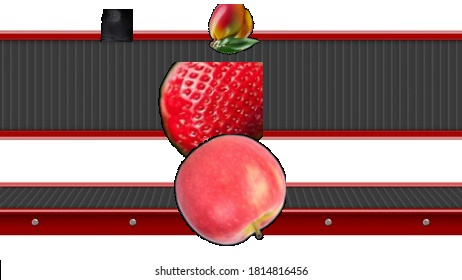
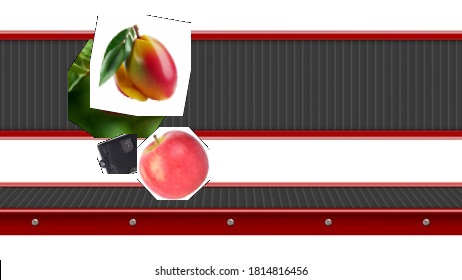
Happy path tested, working

Changed region(s): [[0.1212, 0.0, 0.6364, 0.8857]]

diff --git a/UI/gui.py b/UI/gui.py
@@ -8,6 +8,7 @@ from PIL import Image, ImageTk
 from image_processing.create_mask_cv2 import process_image
 from image_processing.pick_location_cv2 import pick_location_imp
 from image_processing.update_render_cv2 import get_updated_render_cv2
+from image_processing.automaticGenerate import gen_image
 import tkinter as tk
 import random
 
@@ -46,6 +47,10 @@ class App:
         self.img_label.image = self.img_tk  # Keep a reference to avoid garbage collection
         self.img_label.pack(pady=5)
 
+        # Create a Button widget to Auto Generate Image
+        self.add_image_button = tk.Button(self.window, text="Auto Gen", command=self.autogen)
+        self.add_image_button.pack(pady=5)
+        
         # Create a Button widget to Add Image
         self.add_image_button = tk.Button(self.window, text="Add Image", command=self.add_object)
         self.add_image_button.pack(pady=5)
@@ -64,6 +69,15 @@ class App:
         self.img_label_render.image = self.img_tk_render  # Keep a reference to avoid garbage collection
         self.img_label_render.pack(pady=5)
 
+    def autogen(self):
+        self.img_render = gen_image()
+        print("update preview")
+        self.img_render = Image.fromarray(self.img_render)
+        self.img_tk_render = ImageTk.PhotoImage(self.img_render)
+        self.img_label_render.destroy()
+        self.img_label_render = Label(self.window, image=self.img_tk_render)
+        self.img_label_render.image = self.img_tk_render  # Keep a reference to avoid garbage collection
+        self.img_label_render.pack(pady=5)
     def add_object(self):
         print("add object")
         self.file_path = filedialog.askopenfilename(filetypes=[("Image Files", "*.jpg *.png *.jpeg *.bmp")])
@@ -78,7 +92,9 @@ class App:
     # Load the image using OpenCV
         #self.cv_imgobj = cv2.imread(self.file_path)
     #cv_img = cv2.cvtColor(cv_img, cv2.COLOR_BGR2RGB)  # Convert BGR to RGB for Tkinter
+        
         self.extract_image = process_image(self.file_path, self.bgimg_path)
+        #self.extract_image = process_image(self.file_path, self.img_render)
         self.extract_image = cv2.cvtColor(self.extract_image, cv2.COLOR_BGR2RGB)
         
     # Convert OpenCV image to PIL Image
@@ -121,6 +137,7 @@ class App:
 
     def pick_location(self):
         self.locx , self.locy = pick_location_imp(self.bgimg_path)
+        #self.locx , self.locy = pick_location_imp(self.img_render)
         print(self.locx, self.locy)
         
         
@@ -154,3 +171,7 @@ class App:
         
         self.window.mainloop()
 
+
+if __name__ == "__main__":
+    app= App()
+    app.run()

diff --git a/image_processing/create_mask_cv2.py b/image_processing/create_mask_cv2.py
@@ -1,6 +1,6 @@
 import cv2 
 import numpy as np
-
+from rembg import remove
 #img = np.zeros((600,600), dtype = np.uint8)
 drawing = False
 points_x = []
@@ -41,16 +41,17 @@ def process_image(img_path, bg_image):
     # reading the image 
     scale_percent = 100
     img = cv2.imread(img_path)
-    img_bg = cv2.imread(bg_image)
+    img_bg = cv2.imread(bg_image) 
     bgh, bgw, _ =img_bg.shape
     imgh, imgw, _ = img.shape
-    if (imgh>bgh) or (imgw > bgh): 
+    if (imgh>bgh) or (imgw > bgw): 
         scale_percent = 25
     width = int(img.shape[1] * scale_percent / 100)
     height = int(img.shape[0] * scale_percent / 100)
 
     img = cv2.resize(img, (width, height), interpolation = cv2.INTER_AREA)
-    # displaying the image 
+    img = remove(img)
+    # creating image window  
     cv2.namedWindow(winname="Select Region")
   
     # setting mouse handler for the image 

diff --git a/image_processing/automaticGenerate.py b/image_processing/automaticGenerate.py
@@ -7,7 +7,7 @@ from image_processing.update_render_cv2 import get_updated_render_cv2
 
 
 
-def gen_image(background_image, dir_path, remove_bg= False):
+def gen_image(background_image = "images/background/0.jpg", dir_path="images/objects/", remove_bg= True):
     print("Generate Images Automatically")
     img_render = cv2.imread(background_image)
     dir_list = os.listdir(dir_path)
@@ -49,8 +49,10 @@ def gen_image(background_image, dir_path, remove_bg= False):
     
     img_write_path = "images/render/render.jpg"
     print(img_write_path)
-    cv2.imwrite(img_write_path, img_render)
-    cv2.imshow("test obj", img_render)
-    cv2.waitKey(0)
+    #cv2.imwrite(img_write_path, img_render)
+    #cv2.imshow("test obj", img_render)
+    #cv2.waitKey(0)
+    img_render = cv2.cvtColor(img_render, cv2.COLOR_BGR2RGB)
+    return img_render
 
 

diff --git a/main.py b/main.py
@@ -2,15 +2,17 @@ from UI.gui import App
 from image_processing.automaticGenerate import gen_image
 import cv2
 from rembg import remove
+
+
 if __name__ == "__main__":
 
     # automatic generation
-    gen_image("images/background/0.jpg", "images/objects/", True)
+    #gen_image("images/background/0.jpg", "images/objects/", True)
     #img = cv2.imread("images/objects/obj1/0.jpg")
     #print(img.size)
     #img_bg = remove(img)
     #cv2.imshow("test image", img_bg)
     #cv2.waitKey(0)
     # Create and run the Tkinter app
-    #app = App()
-    #app.run()
+    app = App()
+    app.run()

diff --git a/image_processing/pick_location_cv2.py b/image_processing/pick_location_cv2.py
@@ -15,6 +15,10 @@ def pick(event,x,y,flag, param):
           selected = True 
 
 def pick_location_imp(img_path):
+    global point_x, point_y, selected
+    point_y = 0
+    point_x = 0
+    selected = 0
     # reading the image 
     img = cv2.imread(img_path) 
     cv2.namedWindow(winname="Select Position to Place Image")
